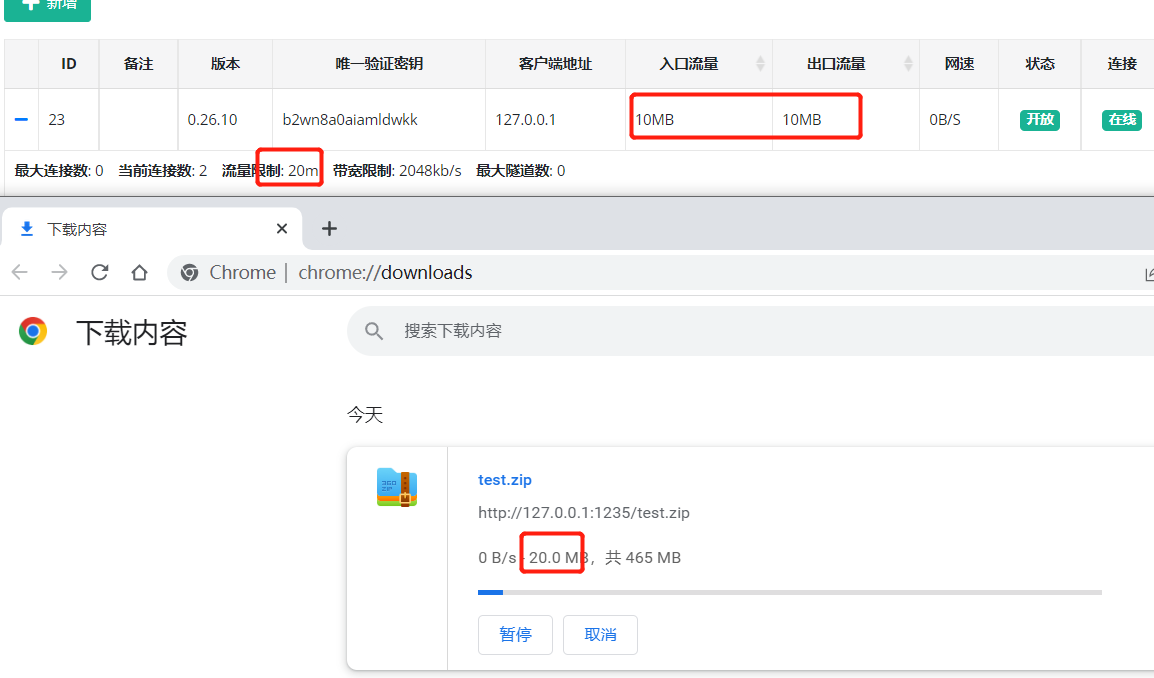
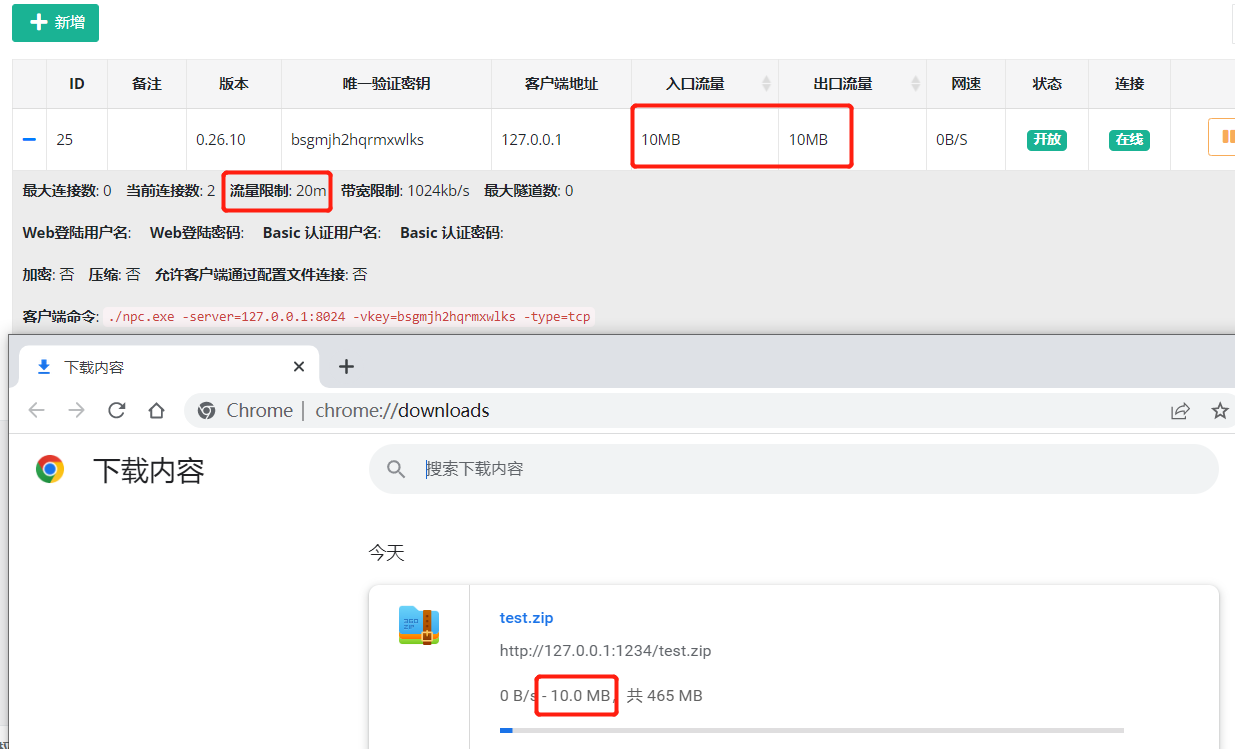
上下行对等

diff --git a/lib/goroutine/pool.go b/lib/goroutine/pool.go
@@ -49,7 +49,7 @@ func CopyBuffer(dst io.Writer, src io.Reader, flow *file.Flow) (err error) {
 			nw, ew := dst.Write(buf[0:nr])
 			if nw > 0 {
 				//written += int64(nw)
-				flow.Add(int64(nw/2), int64(nw/2))
+				flow.Add(int64(nw), int64(nw))
 
 				if (flow.ExportFlow + flow.InletFlow) >= (flow.FlowLimit * 1024 * 1024) {
 					logs.Info("流量已经超出.........")

diff --git a/README.md b/README.md
@@ -13,7 +13,7 @@
 - 2022-10-19:  
 ***BUG***：在TCP协议下，流量统计有问题，只有当连接断开时才会统计流量。例如，限制客户端流量20m,当传输100m的文件时，也能传输成功。
 
-***修复***：TCP协议下实时统计流量，能够精准的限制住流量（出入流量对等）  
+***修复***：TCP协议下实时统计流量，能够精准的限制住流量（上下行对等）  
 ***优化***：删除TCP隧道时，客户端已用流量不再清空
 
 
